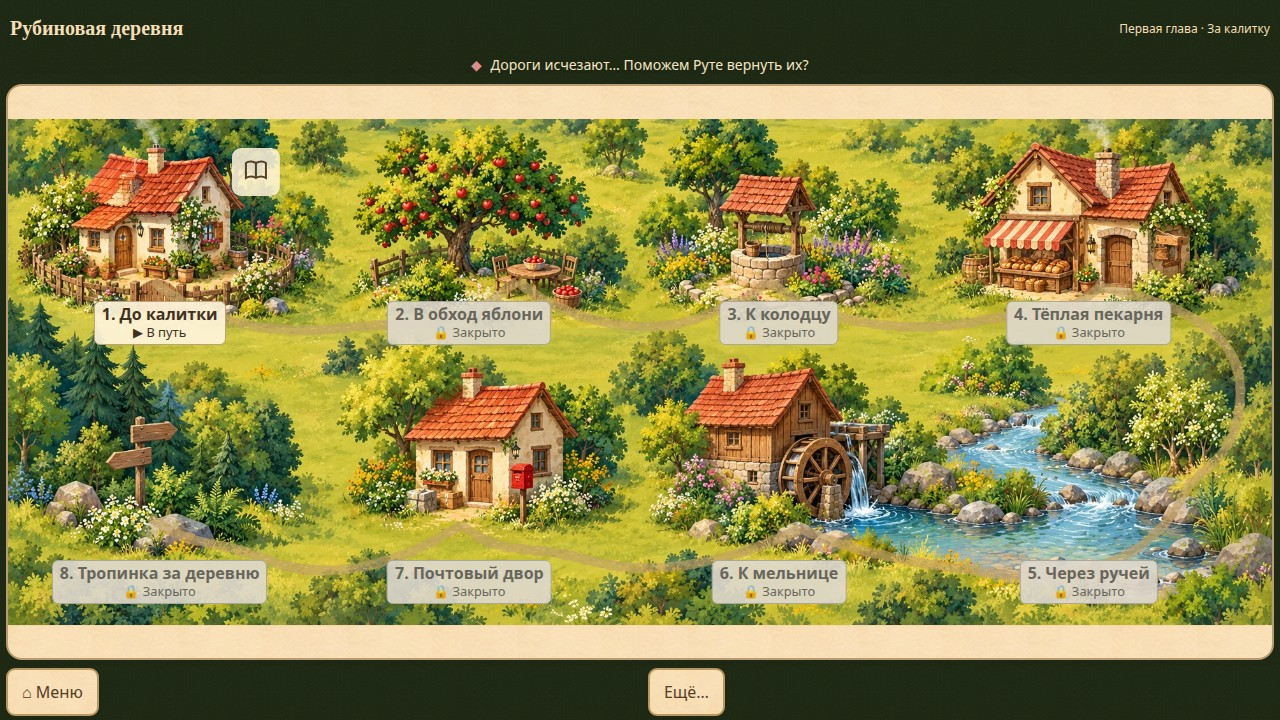
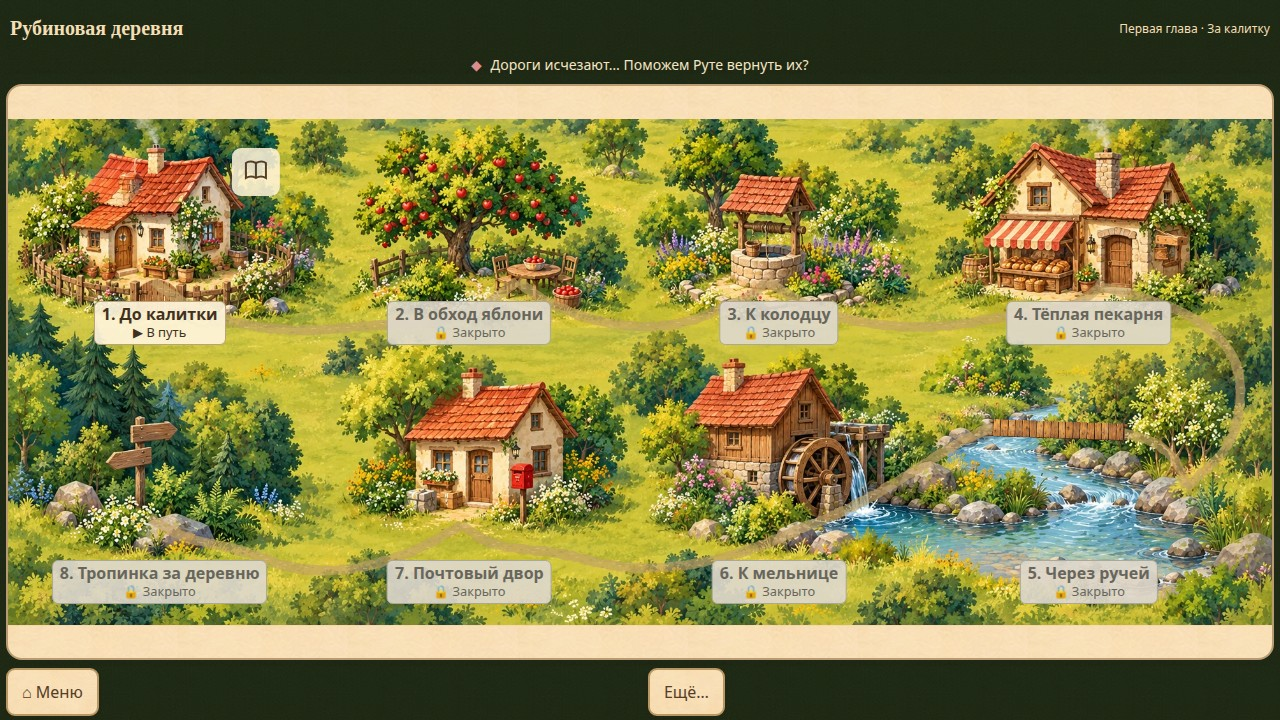
fix(#48): route painted map crossing over the narrow stream with timber deck

diff --git a/src/map-trails.ts b/src/map-trails.ts
@@ -5,7 +5,7 @@ const routes=[
  ['well','M403 128 C445 165 514 172 550 156 S583 146 601 128'],
  ['bakery','M601 128 C650 167 721 169 767 160 S831 160 864 133'],
  ['stream','M864 133 C935 147 977 173 975 217 S958 267 932 292'],
- ['mill','M932 292 C908 351 843 368 784 360 S677 346 626 324'],
+ ['mill','M932 292 C927 266 912 255 886 249 L776 245 C738 259 691 303 626 324'],
  ['post','M626 324 C570 352 510 363 459 349 S392 348 359 321'],
  ['forest','M359 321 C308 354 252 367 206 349 S147 340 112 315'],
 ] as const;
@@ -38,5 +38,11 @@ export function renderMapTrails(target:SVGElement,restored:ReadonlySet<string>){
    node('path',{d:'M-2 -2.4 L0 -2.7 1.8 -1.8 M-.8 .8 L1.4 1.7',fill:'none',stroke:'#d4b6df','stroke-width':.55,opacity:.65},stone);
   }
   guide.remove();
+  if(id==='mill'){
+   // Cross the narrow upper reach, instead of drawing a lane across the wide
+   // lower pool. The same painted timber is used by the actual puzzle bridge.
+   const bridge=node('svg',{x:776,y:239,width:110,height:14,viewBox:'68 167 2033 359',preserveAspectRatio:'none',overflow:'hidden','data-map-bridge':'',transform:'rotate(2 831 246)'},group);
+   node('image',{href:`${import.meta.env.BASE_URL}assets/bridge-v1/deck-v1.png`,width:2170,height:725},bridge);
+  }
  });
 }

diff --git a/scripts/qa/map-trails.py b/scripts/qa/map-trails.py
@@ -11,6 +11,7 @@ with sync_playwright() as p:
   q.goto('http://127.0.0.1:5181/ruby-village/');q.locator('#choose-level').click();q.locator('#map-background').evaluate('(i)=>i.decode()')
   for state,ids in [('new',[]),('partial',['garden','well']),('complete',['garden','well','bakery','stream','mill','post','forest'])]:
    q.evaluate('''async ids=>{const {renderMapTrails}=await import('/ruby-village/src/map-trails.ts');renderMapTrails(document.querySelector('#map-roads'),new Set(ids));}''',ids)
+   q.wait_for_load_state('networkidle')
    assert q.locator('[data-map-trail]').count()==7
    assert q.locator('[data-map-trail][data-complete="true"]').count()==len(ids)
    assert q.locator('#map-roads path[stroke-width="5"]').count()==0
